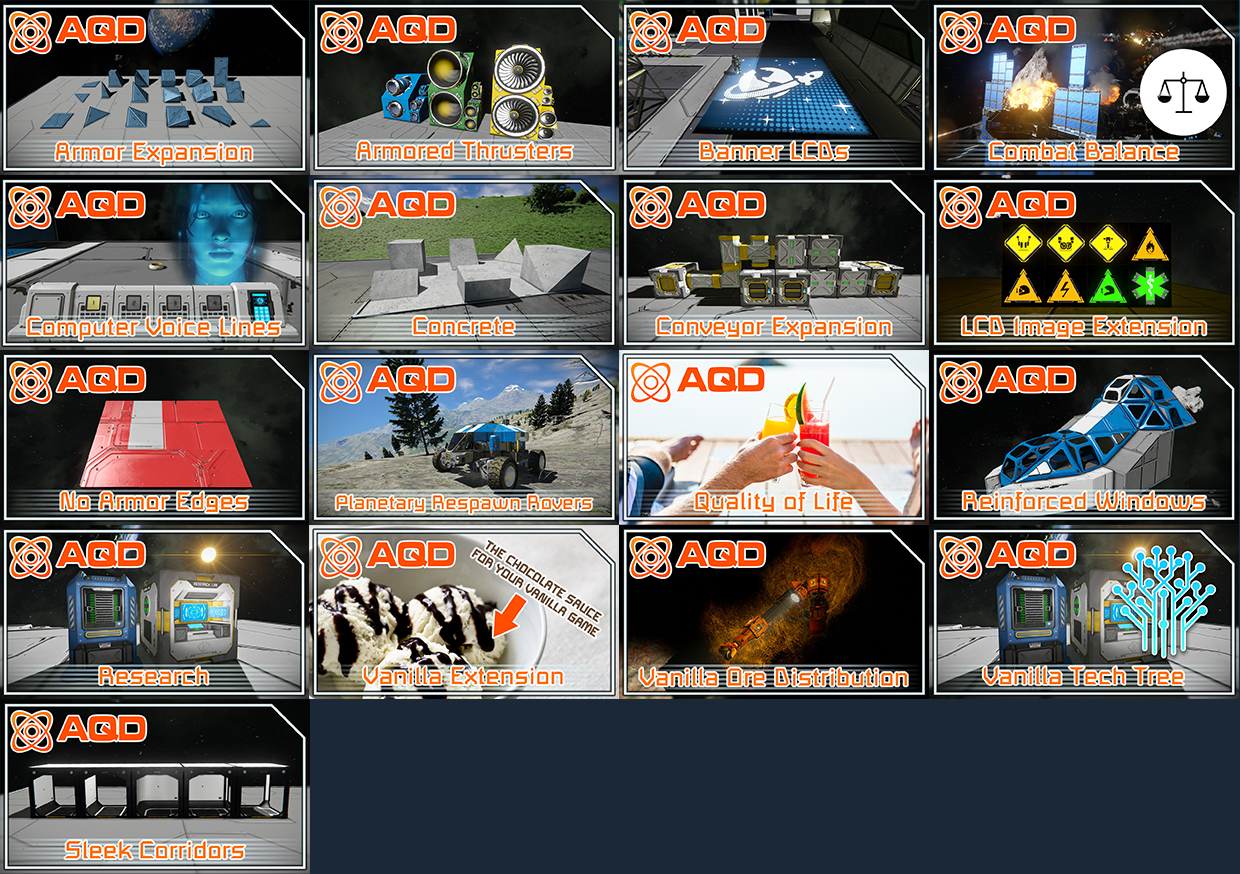
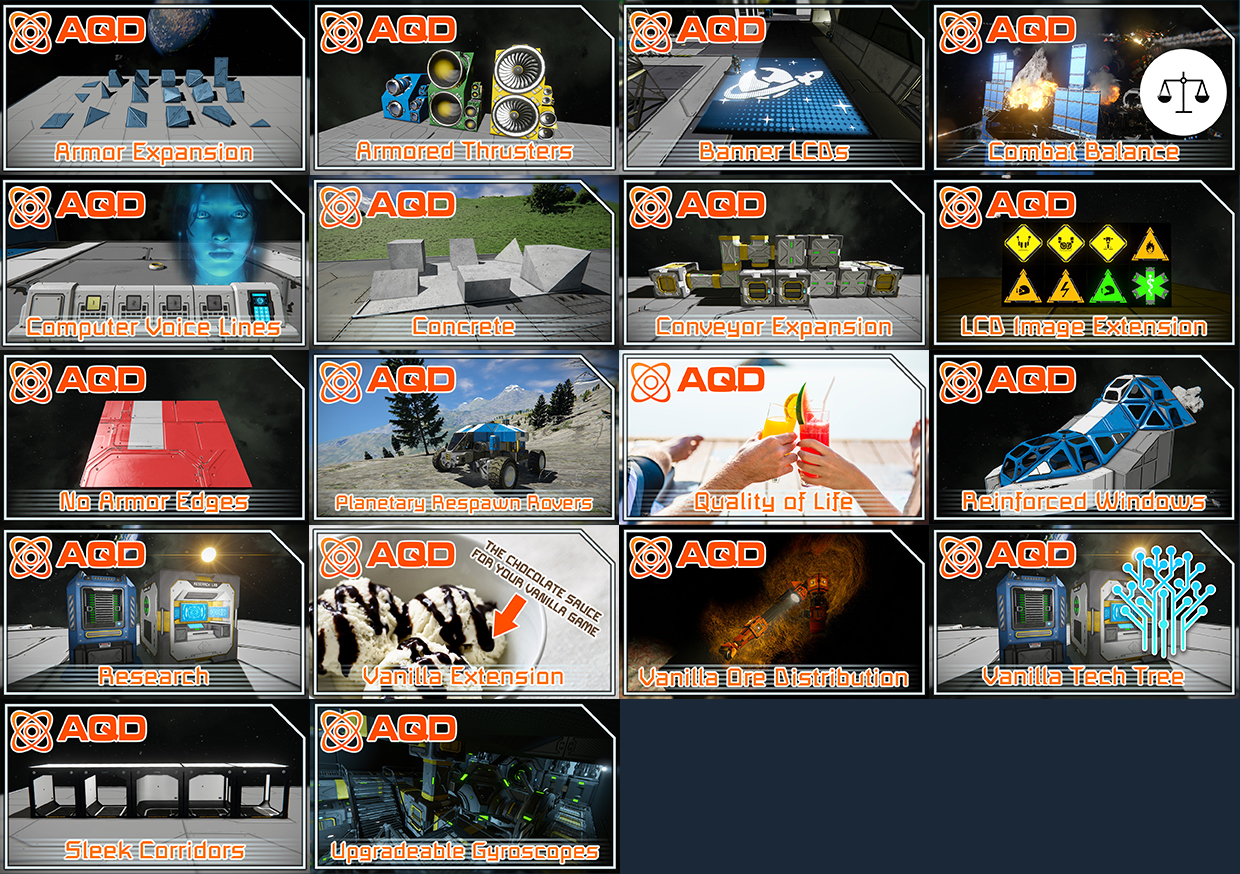
Collection update

Changed region(s): [[0.2452, 0.7723, 0.521, 1.0]]

diff --git a/AQD - Upgradeable Gyroscopes/Content/description.md b/AQD - Upgradeable Gyroscopes/Content/description.md
@@ -33,5 +33,5 @@ The Gyro Booster features four mounting points for the existing gyroscopes. If p
 
 [img]https://i.imgur.com/uUOBTpF.png[/img]
 [list]
-[*][b][url=https://steamcommunity.com/id/AryxERIN/myworkshopfiles/?appid=244850]AryxErin[/url][/b] - Comissioned to create the models for this mod, and did a stellar job at it. You should definitely check out her other mods!
+[*][b]AryxErin[/b] - Comissioned to create the models for this mod, and did a stellar job at it. You should definitely [url=https://steamcommunity.com/id/AryxERIN/myworkshopfiles/?appid=244850]check out her other mods![/url]
 [/list]
